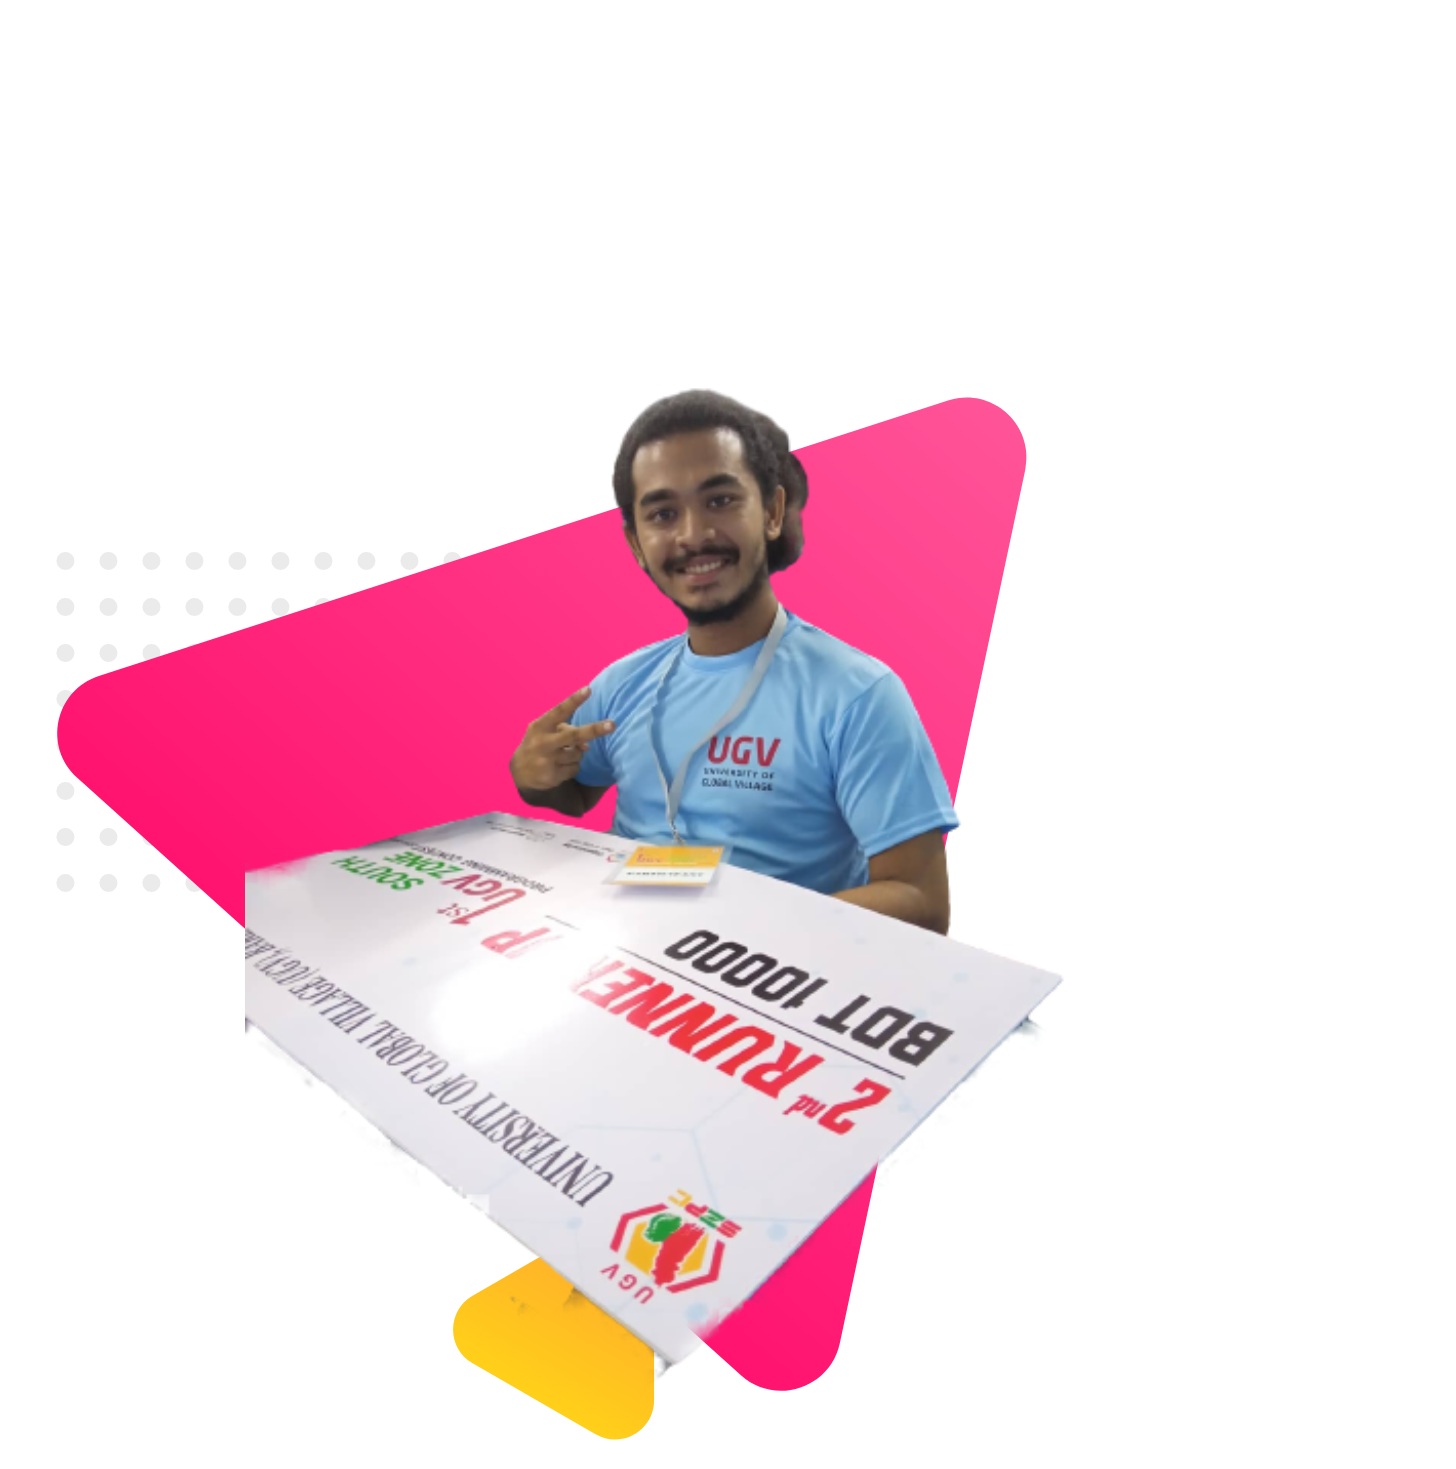
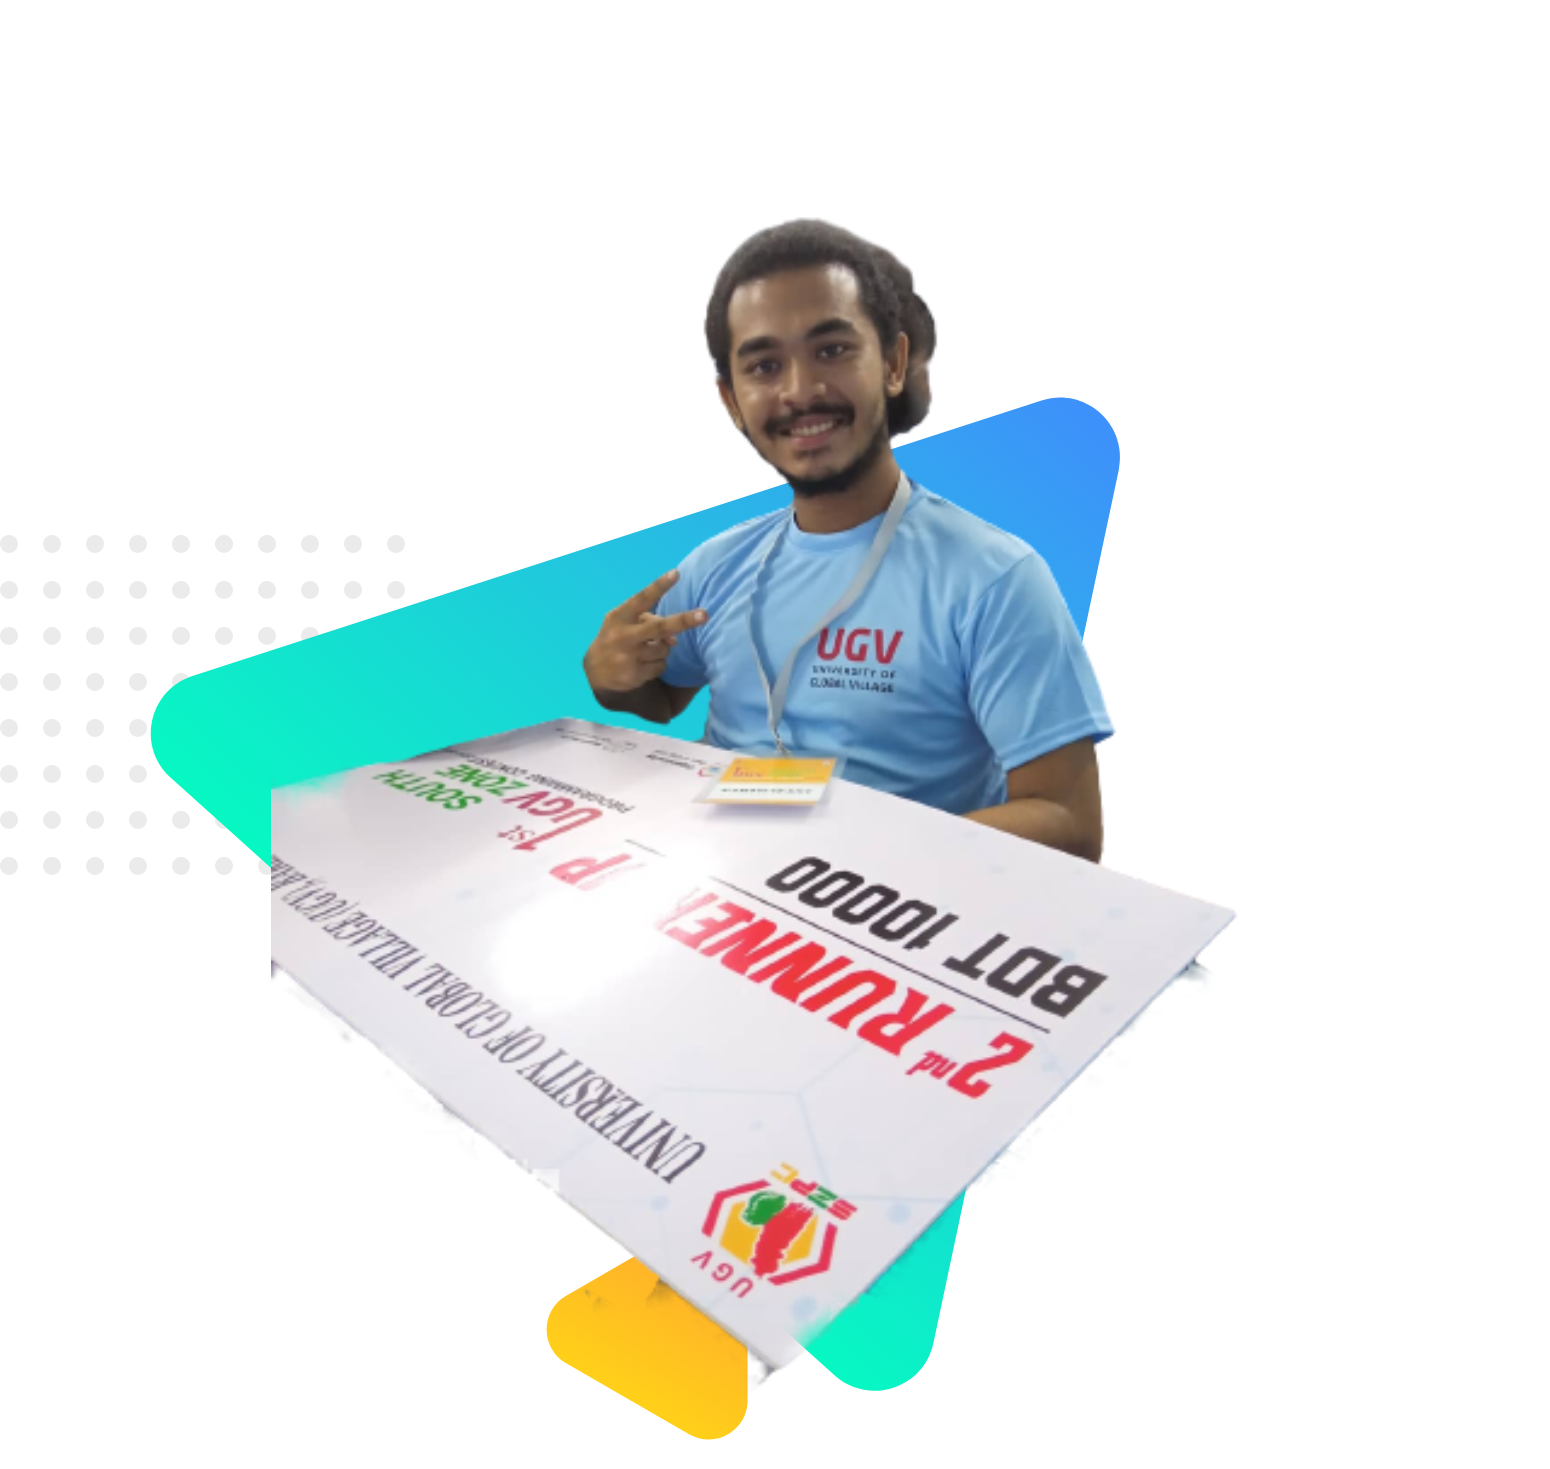
xx

Changed region(s): [[0.0309, 0.1532, 0.8036, 0.9803]]

diff --git a/index.html b/index.html
@@ -42,11 +42,21 @@
 
 
     <section class="secondBanner">
-        <div class="part2">
+        <div class="introText">
             <img src="Resources/image 11 (1).png" alt="">
         </div>
-        <div class="part2">
-
+        <div class="introText">
+            <h2>
+                <span id="dream">Dream</span> <span id="big">Big</span>
+            </h2>
+            <h3>
+                Expert in Web Development
+            </h3>
+            <p>
+                Currently Learning HTML and CSS. But I can give my word that
+                <br>one day, I will be BIG.
+            </p>
+            <a class="linkedInButton" target="_blank" href="https://www.linkedin.com/in/algobot048/">Download RESUME</a>
         </div>
     </section>
 </body>

diff --git a/style.css b/style.css
@@ -10,8 +10,21 @@ section{
 h1{
     font-size: 50px;
 }
+h2{
+    font-size: 40Px;
+}
+p{
+    color: dimgray;
+    border: 10px;
+}
 #nugu{
     color:orange;
+}
+#dream{
+    color:aqua;
+}
+#big{
+    color:orangered;
 }
 
 .introText{
@@ -24,9 +37,20 @@ h1{
     width: 100%;
 }
 
+.introText h2{
+    margin-top: 20Px;
+    padding-top: 100px;
+}
+
 .topBanner{
     background-repeat: no-repeat;
     background-image: url("Resources/top-banner.png");
+}
+
+.secondBanner{
+    background-image: url("Resources/dream-bg.png");
+    background-repeat: no-repeat;
+    background-position: right;
 }
 
 .linkedInButton{
